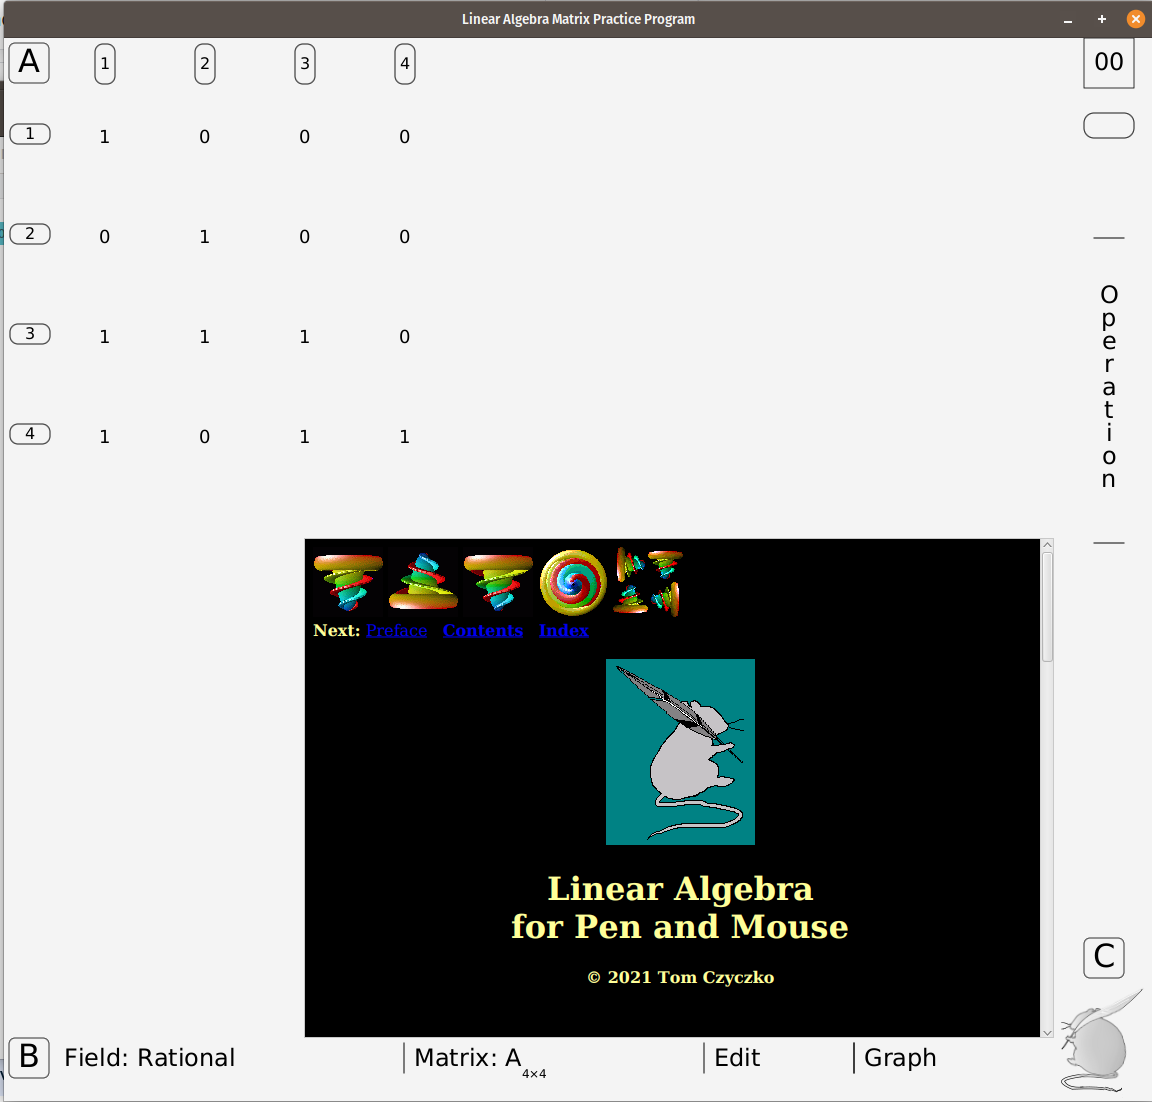
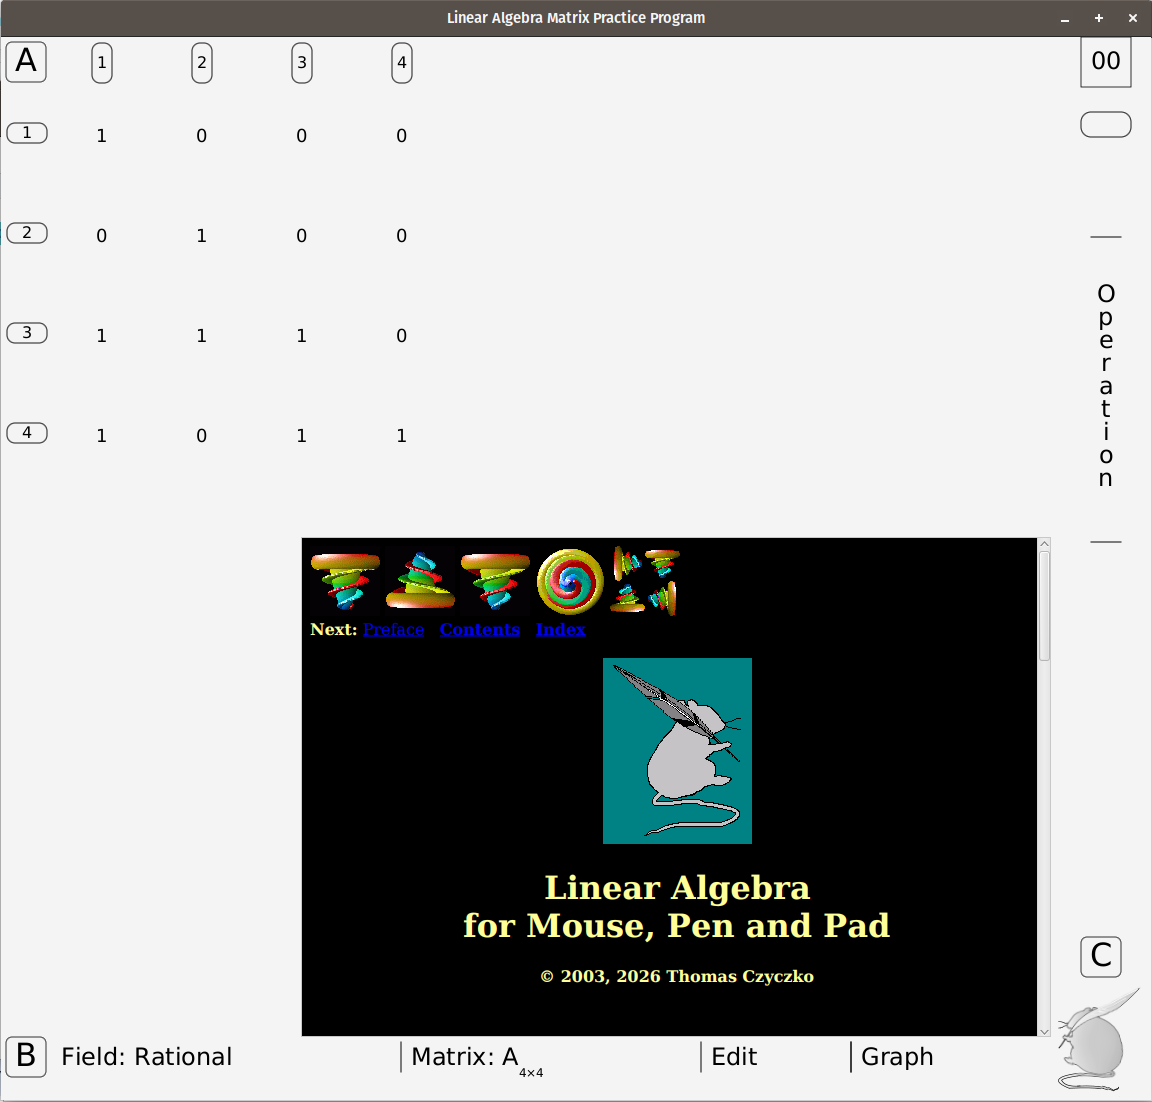
Changed screenshot for help

diff --git a/src/main/resources/html/index.html b/src/main/resources/html/index.html
@@ -1,18 +1,19 @@
-<!DOCTYPE HTML >
+<!DOCTYPE html><html lang="en">
 
-<html>
 <head>
-<title>Linear Algebra for Pen and Mouse</title>
-<meta name="description" content="Linear algebra for pen and Mouse">
+<title>Linear Algebra for Mouse, Pen and Pad</title>
+<meta name="description" content="Preface">
 <meta name="keywords" content="linalg">
 <meta name="resource-type" content="document">
 <meta name="distribution" content="global">
 
-<meta http-equiv="Content-Type" content="text/html; charset=iso-8859-1">
-<meta name="Generator" content="LaTeX2HTML v2008">
-<meta http-equiv="Content-Style-Type" content="text/css">
+<meta http-equiv="Content-Type" content="text/html; charset=charset=UTF-8">
 
-<link rel="STYLESHEET" href="linalg.css">
+
+<!--<link rel="STYLESHEET" href="linalg.css">-->
+<link rel="stylesheet" href="LaTeXML.css" type="text/css">
+<link rel="stylesheet" href="ltx-book.css" type="text/css">
+<meta name="viewport" content="width=device-width, initial-scale=1, shrink-to-fit=no">
 
 <link rel="next" href="node1.html">
 </head>
@@ -51,10 +52,10 @@
 
 <h1 align=CENTER>Linear Algebra 
 <br>
-for Pen and Mouse</h1>
-<p align=CENTER><strong>&#169; 2021 Tom Czyczko</strong>
+for Mouse, Pen and Pad</h1>
+<p align=CENTER><strong>&#169; 2003, 2026 Thomas Czyczko</strong>
 </p>
-<br><p align=CENTER><b>Date:</b> February 1, 2021</p>
+<br><p align=CENTER><b>Date:</b> February 9, 2026</p>
 
 <hr>
 

diff --git a/target/classes/html/index.html b/target/classes/html/index.html
@@ -1,18 +1,19 @@
-<!DOCTYPE HTML >
+<!DOCTYPE html><html lang="en">
 
-<html>
 <head>
-<title>Linear Algebra for Pen and Mouse</title>
-<meta name="description" content="Linear algebra for pen and Mouse">
+<title>Linear Algebra for Mouse, Pen and Pad</title>
+<meta name="description" content="Preface">
 <meta name="keywords" content="linalg">
 <meta name="resource-type" content="document">
 <meta name="distribution" content="global">
 
-<meta http-equiv="Content-Type" content="text/html; charset=iso-8859-1">
-<meta name="Generator" content="LaTeX2HTML v2008">
-<meta http-equiv="Content-Style-Type" content="text/css">
+<meta http-equiv="Content-Type" content="text/html; charset=charset=UTF-8">
 
-<link rel="STYLESHEET" href="linalg.css">
+
+<!--<link rel="STYLESHEET" href="linalg.css">-->
+<link rel="stylesheet" href="LaTeXML.css" type="text/css">
+<link rel="stylesheet" href="ltx-book.css" type="text/css">
+<meta name="viewport" content="width=device-width, initial-scale=1, shrink-to-fit=no">
 
 <link rel="next" href="node1.html">
 </head>
@@ -51,10 +52,10 @@
 
 <h1 align=CENTER>Linear Algebra 
 <br>
-for Pen and Mouse</h1>
-<p align=CENTER><strong>&#169; 2021 Tom Czyczko</strong>
+for Mouse, Pen and Pad</h1>
+<p align=CENTER><strong>&#169; 2003, 2026 Thomas Czyczko</strong>
 </p>
-<br><p align=CENTER><b>Date:</b> February 1, 2021</p>
+<br><p align=CENTER><b>Date:</b> February 9, 2026</p>
 
 <hr>
 
